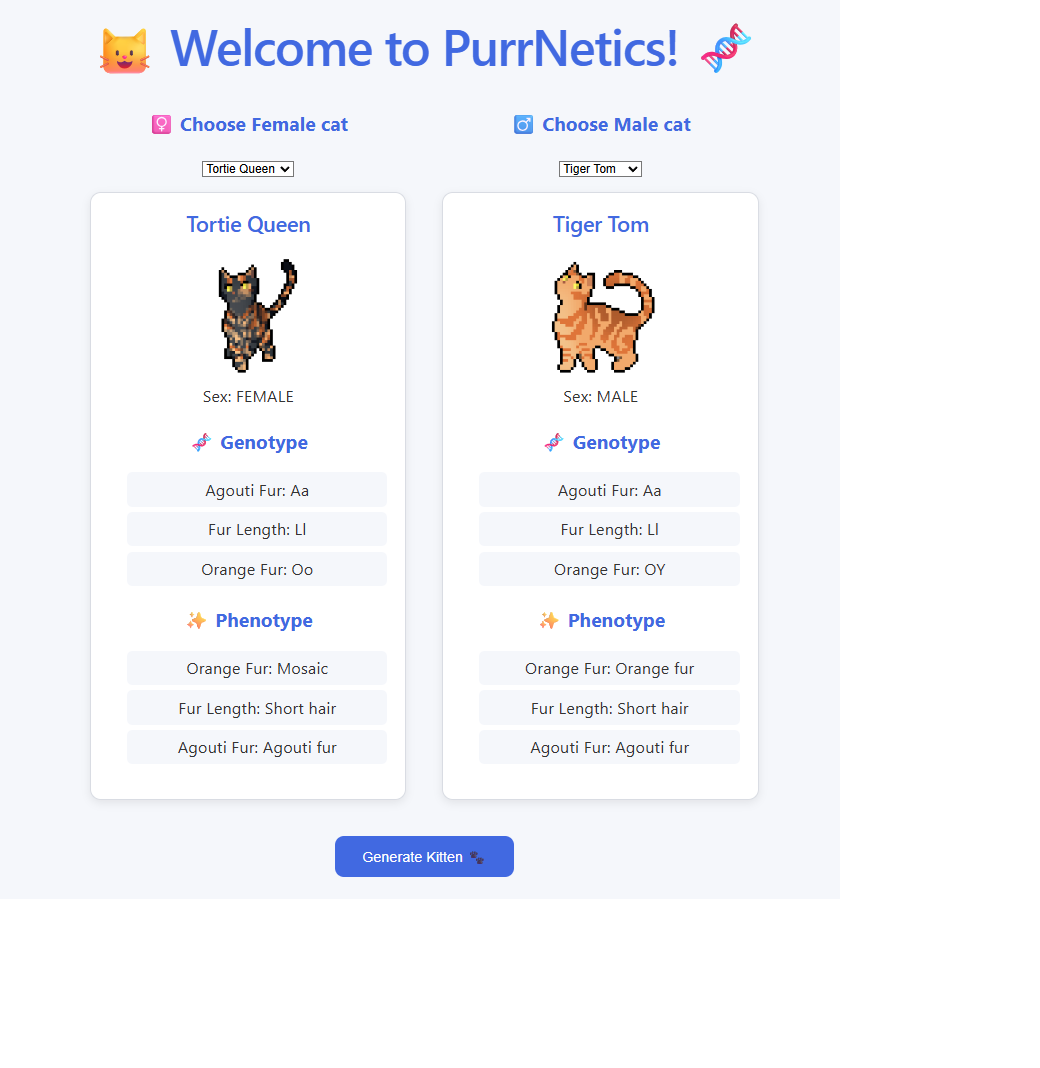
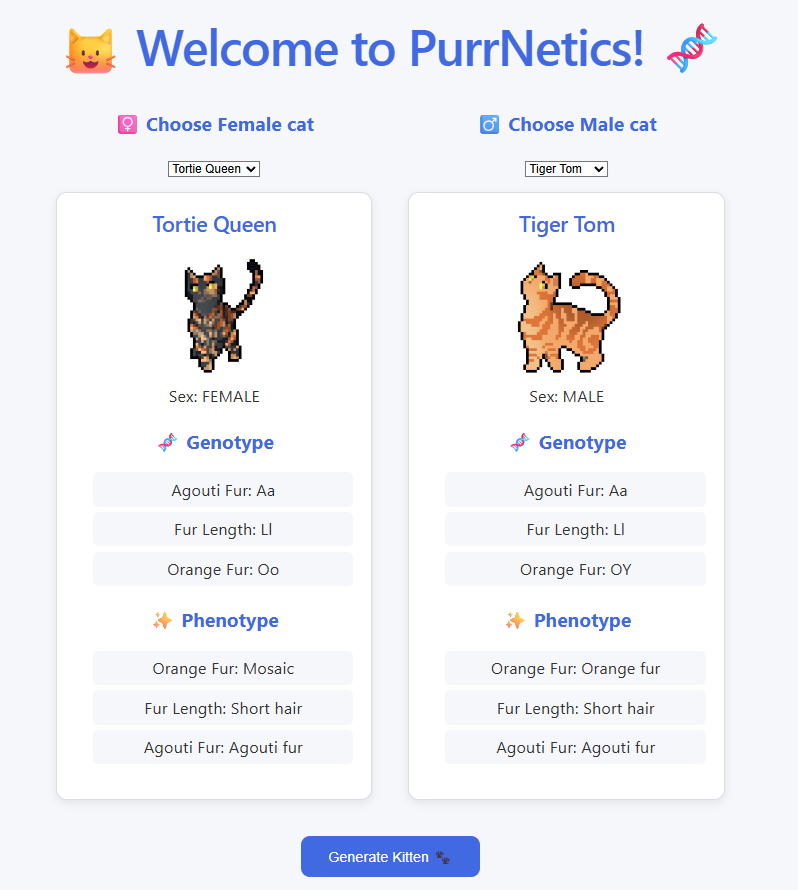
Adj: README.md format fix

diff --git a/README.md b/README.md
@@ -12,12 +12,23 @@ PurrNetics is an educational cat fur coat genetics simulator. It models how gene
 
 ## Demo
 ### Parent Cat Selector
-![Parent cat selection screen](demo-assets/parent-selection.png)
+
+<div align = "center">
+<img src = "demo-assets/parent-selection.png" />
+</div>
+
 ### Breeding Result
-![Breeding result genotype probabilities](demo-assets/breeding-result-genotype.png) 
-![Breeding result phenotype probabilities](demo-assets/breeding-result-phenotype.png)
-## Possible Kittens From Breeding Result
-![Possible kittens](demo-assets/possible-kittens.png)
+
+<div align = "center">
+<img src = "demo-assets/breeding-result-genotype.png" />
+<img src = "demo-assets/breeding-result-phenotype.png" />
+</div>
+
+### Possible Kitten Outcomes
+
+<div align = "center">
+<img src = "demo-assets/possible-kittens.png" />
+</div>
 
 ## Genetics 101
 PurrNetics models both **genotype** (the inherited genetic information an organism carries) and **phenotype** (the observable traits produced by expressing that genetic information). 
